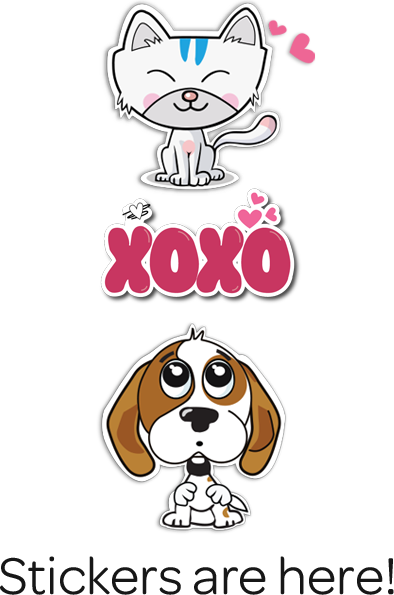
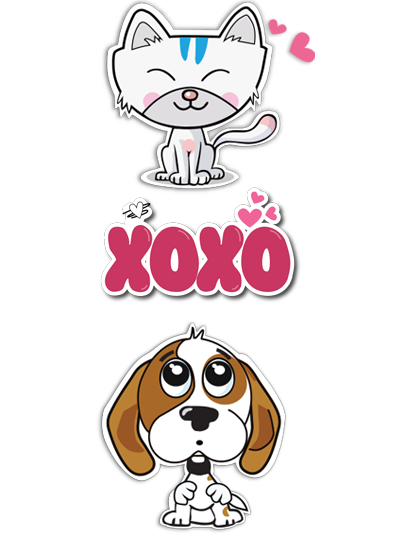
modified tutorials

Changed region(s): [[0.0, 0.0, 0.7614, 1.0], [0.7005, 0.9151, 1.0, 1.0], [0.731, 0.059, 0.8223, 0.1181]]

diff --git a/windows-client/View/TutorialScreen.xaml b/windows-client/View/TutorialScreen.xaml
@@ -15,27 +15,31 @@
 
     <!--LayoutRoot is the root grid where all page content is placed-->
     <Grid x:Name="LayoutRoot" Background="#ffffff">
-        <Grid Name="gridStatusUpdates" Visibility="Visible">
+        <Grid Name="gridStatusUpdates" Visibility="Collapsed">
             <Grid.RowDefinitions>
+                <RowDefinition Height="Auto"/>
                 <RowDefinition Height="Auto"/>
                 <RowDefinition Height="Auto"/>
                 <RowDefinition Height="*"/>
             </Grid.RowDefinitions>
 
             <Image Source="/View/images/tutorial_welcome.png" MaxHeight="450" MaxWidth="310" HorizontalAlignment="Center" Margin="0 70 0 0" />
-            <TextBlock Text="{Binding Path= LocalizedResources.WelcomeTut_TxtBlk1, Source={StaticResource LocalizedStrings}}" Margin="0 40 0 0" TextWrapping="Wrap" FontFamily="Segoe WP Regular" FontSize="19" Foreground="#747474" HorizontalAlignment="Center" Grid.Row="1" />
-            <TextBlock Text="{Binding Path= LocalizedResources.WelcomeTut_TxtBlk2, Source={StaticResource LocalizedStrings}}" TextWrapping="Wrap" FontFamily="Segoe WP Regular" FontSize="20" Foreground="#747474" HorizontalAlignment="Center" VerticalAlignment="Top" Grid.Row="2" />
+            <TextBlock Text="{Binding Path= LocalizedResources.WelcomeTut_TxtBlk0, Source={StaticResource LocalizedStrings}}" Margin="0,100,0,0" TextWrapping="Wrap" FontFamily="Segoe WP Regular" FontSize="38" Foreground="Black" HorizontalAlignment="Center" Grid.Row="1" />
+            <TextBlock Text="{Binding Path= LocalizedResources.WelcomeTut_TxtBlk1, Source={StaticResource LocalizedStrings}}" Margin="0 40 0 0" TextWrapping="Wrap" FontFamily="Segoe WP Regular" FontSize="19" Foreground="#747474" HorizontalAlignment="Center" Grid.Row="2" />
+            <TextBlock Text="{Binding Path= LocalizedResources.WelcomeTut_TxtBlk2, Source={StaticResource LocalizedStrings}}" TextWrapping="Wrap" FontFamily="Segoe WP Regular" FontSize="20" Foreground="#747474" HorizontalAlignment="Center" VerticalAlignment="Top" Grid.Row="3" />
         </Grid>
-        <Grid Name="gridStickers"  Visibility="Collapsed" >
+        <Grid Name="gridStickers">
             <Grid.RowDefinitions>
+                <RowDefinition Height="Auto"/>
                 <RowDefinition Height="Auto"/>
                 <RowDefinition Height="Auto"/>
                 <RowDefinition Height="*"/>
             </Grid.RowDefinitions>
 
             <Image Source="/View/images/tutorial_stickers.png" MaxHeight="450" MaxWidth="310" HorizontalAlignment="Center" Margin="0 70 0 0" />
-            <TextBlock Text="{Binding Path= LocalizedResources.StickersTut_TxtBlk1, Source={StaticResource LocalizedStrings}}" Margin="0 40 0 0" TextWrapping="Wrap" FontFamily="Segoe WP Regular" FontSize="19" Foreground="#747474" HorizontalAlignment="Center" Grid.Row="1" />
-            <TextBlock Text="{Binding Path= LocalizedResources.StickersTut_TxtBlk2, Source={StaticResource LocalizedStrings}}" TextWrapping="Wrap" FontFamily="Segoe WP Regular" FontSize="20" Foreground="#747474" HorizontalAlignment="Center" VerticalAlignment="Top" Grid.Row="2" />
+            <TextBlock Text="{Binding Path= LocalizedResources.StickersTut_TxtBlk0, Source={StaticResource LocalizedStrings}}" Margin="0,10,0,0" TextWrapping="Wrap" FontFamily="Segoe WP Regular" FontSize="38" Foreground="Black" HorizontalAlignment="Center" Grid.Row="1" />
+            <TextBlock Text="{Binding Path= LocalizedResources.StickersTut_TxtBlk1, Source={StaticResource LocalizedStrings}}" Margin="0 40 0 0" TextWrapping="Wrap" FontFamily="Segoe WP Regular" FontSize="19" Foreground="#747474" HorizontalAlignment="Center" Grid.Row="2" />
+            <TextBlock Text="{Binding Path= LocalizedResources.StickersTut_TxtBlk2, Source={StaticResource LocalizedStrings}}" TextWrapping="Wrap" FontFamily="Segoe WP Regular" FontSize="20" Foreground="#747474" HorizontalAlignment="Center" VerticalAlignment="Top" Grid.Row="3"/>
         </Grid>
     </Grid>
 

diff --git a/windows-client/Languages/AppResources.Designer.cs b/windows-client/Languages/AppResources.Designer.cs
@@ -4065,6 +4065,15 @@ namespace windows_client.Languages {
         }
         
         /// <summary>
+        ///   Looks up a localized string similar to Stickers are here!.
+        /// </summary>
+        public static string StickersTut_TxtBlk0 {
+            get {
+                return ResourceManager.GetString("StickersTut_TxtBlk0", resourceCulture);
+            }
+        }
+        
+        /// <summary>
         ///   Looks up a localized string similar to Express yourself better with.
         /// </summary>
         public static string StickersTut_TxtBlk1 {
@@ -4565,6 +4574,15 @@ namespace windows_client.Languages {
         public static string WelcomePage_TnP_HlBtn {
             get {
                 return ResourceManager.GetString("WelcomePage_TnP_HlBtn", resourceCulture);
+            }
+        }
+        
+        /// <summary>
+        ///   Looks up a localized string similar to Welcome to hike.
+        /// </summary>
+        public static string WelcomeTut_TxtBlk0 {
+            get {
+                return ResourceManager.GetString("WelcomeTut_TxtBlk0", resourceCulture);
             }
         }
         
